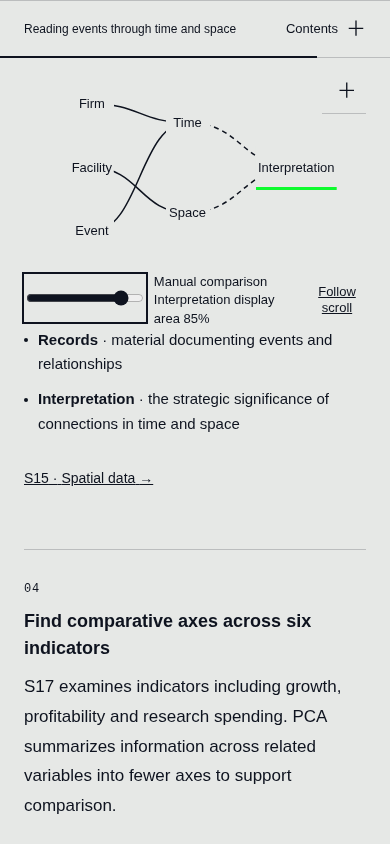
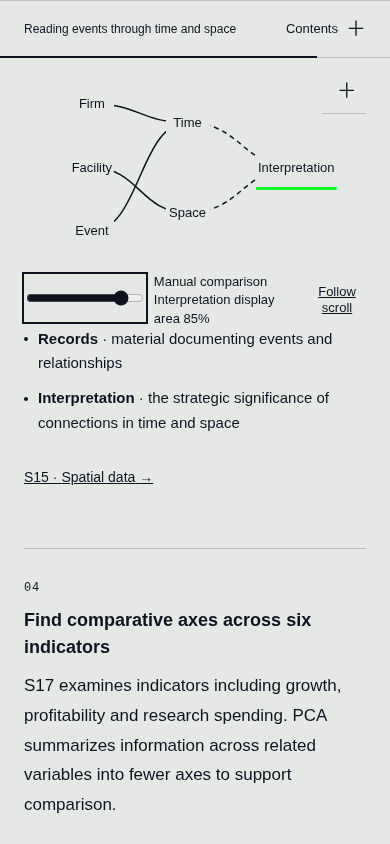
docs: record v2.4.3 production checks and crawler expiry

diff --git a/v1.1.0/docs/V2_4_3_IMPLEMENTATION.md b/v1.1.0/docs/V2_4_3_IMPLEMENTATION.md
@@ -3,4 +3,4 @@
 1. Diagram corrections: removed airport leaders and capability background globe; locator uses screen pixels; PCA shares scalable drawing masks and a transparent label layer. Typecheck, 29 unit checks and source/PDF preservation pass. Browser visibility checks added; final production-build results follow in the release record.
 2. Comparison/readability: scroll-derived interpretation clipping, persistent manual override and explicit resume; controls only in the interpretation step. Eleven repeated fact sets edited bilingually, labels/source titles/excerpt counts clarified. First browser check: airport overlap and visible PCA progression pass at desktop and mobile (4 checks); screenshots inspected. Full interaction regression follows.
 3. Timed crawler review: request-time robots policy with no-store headers; fixed 72-hour UTC window, fail-closed validation, API/originals exclusions and existing noindex retained. Boundary and malformed-config unit tests pass. The window is activated once in the release commit, with the fixed deadline below.
-4. Full browser checkpoint: 217 passed / 31 conditional skips. Final related regressions: 65 passed / 11 conditional skips; 31 unit checks and preservation pass. Geometry and three-run mobile performance measurements recorded in V2_4_3_RELEASE.md. Fixed crawler expiry: 2026-11-05 07:08:44 UTC. Activation-build: 21 passed / 3 conditional skips. Live results are appended in the release record.
+4. Full browser checkpoint: 217 passed / 31 conditional skips. Final related regressions: 65 passed / 11 conditional skips; 31 unit checks and preservation pass. Geometry and three-run mobile performance measurements recorded in V2_4_3_RELEASE.md. Fixed crawler expiry: 2026-11-05 07:08:44 UTC. Activation-build: 21 passed / 3 conditional skips. Live verification completed at 2026-11-02 16:21 KST on four viewport profiles; explicit no-store robots response and the fixed expiry confirmed. See the release record and v2.4.3-live.json.

diff --git a/v1.1.0/docs/V2_4_3_RELEASE.md b/v1.1.0/docs/V2_4_3_RELEASE.md
@@ -70,3 +70,15 @@ CHROME_PATH=/usr/bin/chromium AUDIT_URL=http://127.0.0.1:3000 npm run audit:perf
 ```
 
 성능 측정은 브라우저 회귀 종료 후 순차 실행한다. 새 배포에서도 config의 고정 종료 시각을 유지한다. 운영 문제가 생기면 v2.4.2로 되돌릴 수 있다. 해당 태그의 robots는 전체 차단이다. 운영 확인은 main 푸시 후 아래에 기록한다.
+
+### 운영 확인
+
+2026-11-02 **16:21 KST**, 코드 커밋 `3c7b6f3`의 [운영 사이트](https://research-hxgn.vercel.app)를 Chromium으로 확인했다. [운영 검사 결과](validation/v2.4.3-live.json)를 보관한다.
+
+- 1440×1000·1440×500·390×844·320×568에서 공항 표시선 제거, 안내 지도 96/72px와 지명 비겹침, 기업→국가 배경 지구본 제거·첫 화면 지구본 유지 확인.
+- 비교 바의 스크롤 연동·수동 우선·자동 복귀, 실제 CDP 터치의 85% 선택, 한영 전환 후 단계·수동값 유지 확인.
+- PCA 완료 및 확대 보기의 8개 독립 마스크 참조 확인. 페이지 오류 0개.
+- robots HTTP 200, `Allow: /`, `/api/`·`/originals/` 제외, 브라우저 `Cache-Control: private, no-cache, no-store, max-age=0, must-revalidate`, `CDN-Cache-Control: no-store`, Vercel `MISS` 확인.
+- 공개 메인·자료실·S08 보고서 HTTP 200과 HTML `noindex, follow` 유지 확인. 종료 시각은 **2026-11-05 16:08:44 KST**로 변함없다.
+
+운영에서 전체 회귀·Lighthouse를 다시 실행한 결과는 아니다. 실제 휴대전화 Safari 대신 Linux Chromium의 화면·터치 에뮬레이션으로 확인했다.
